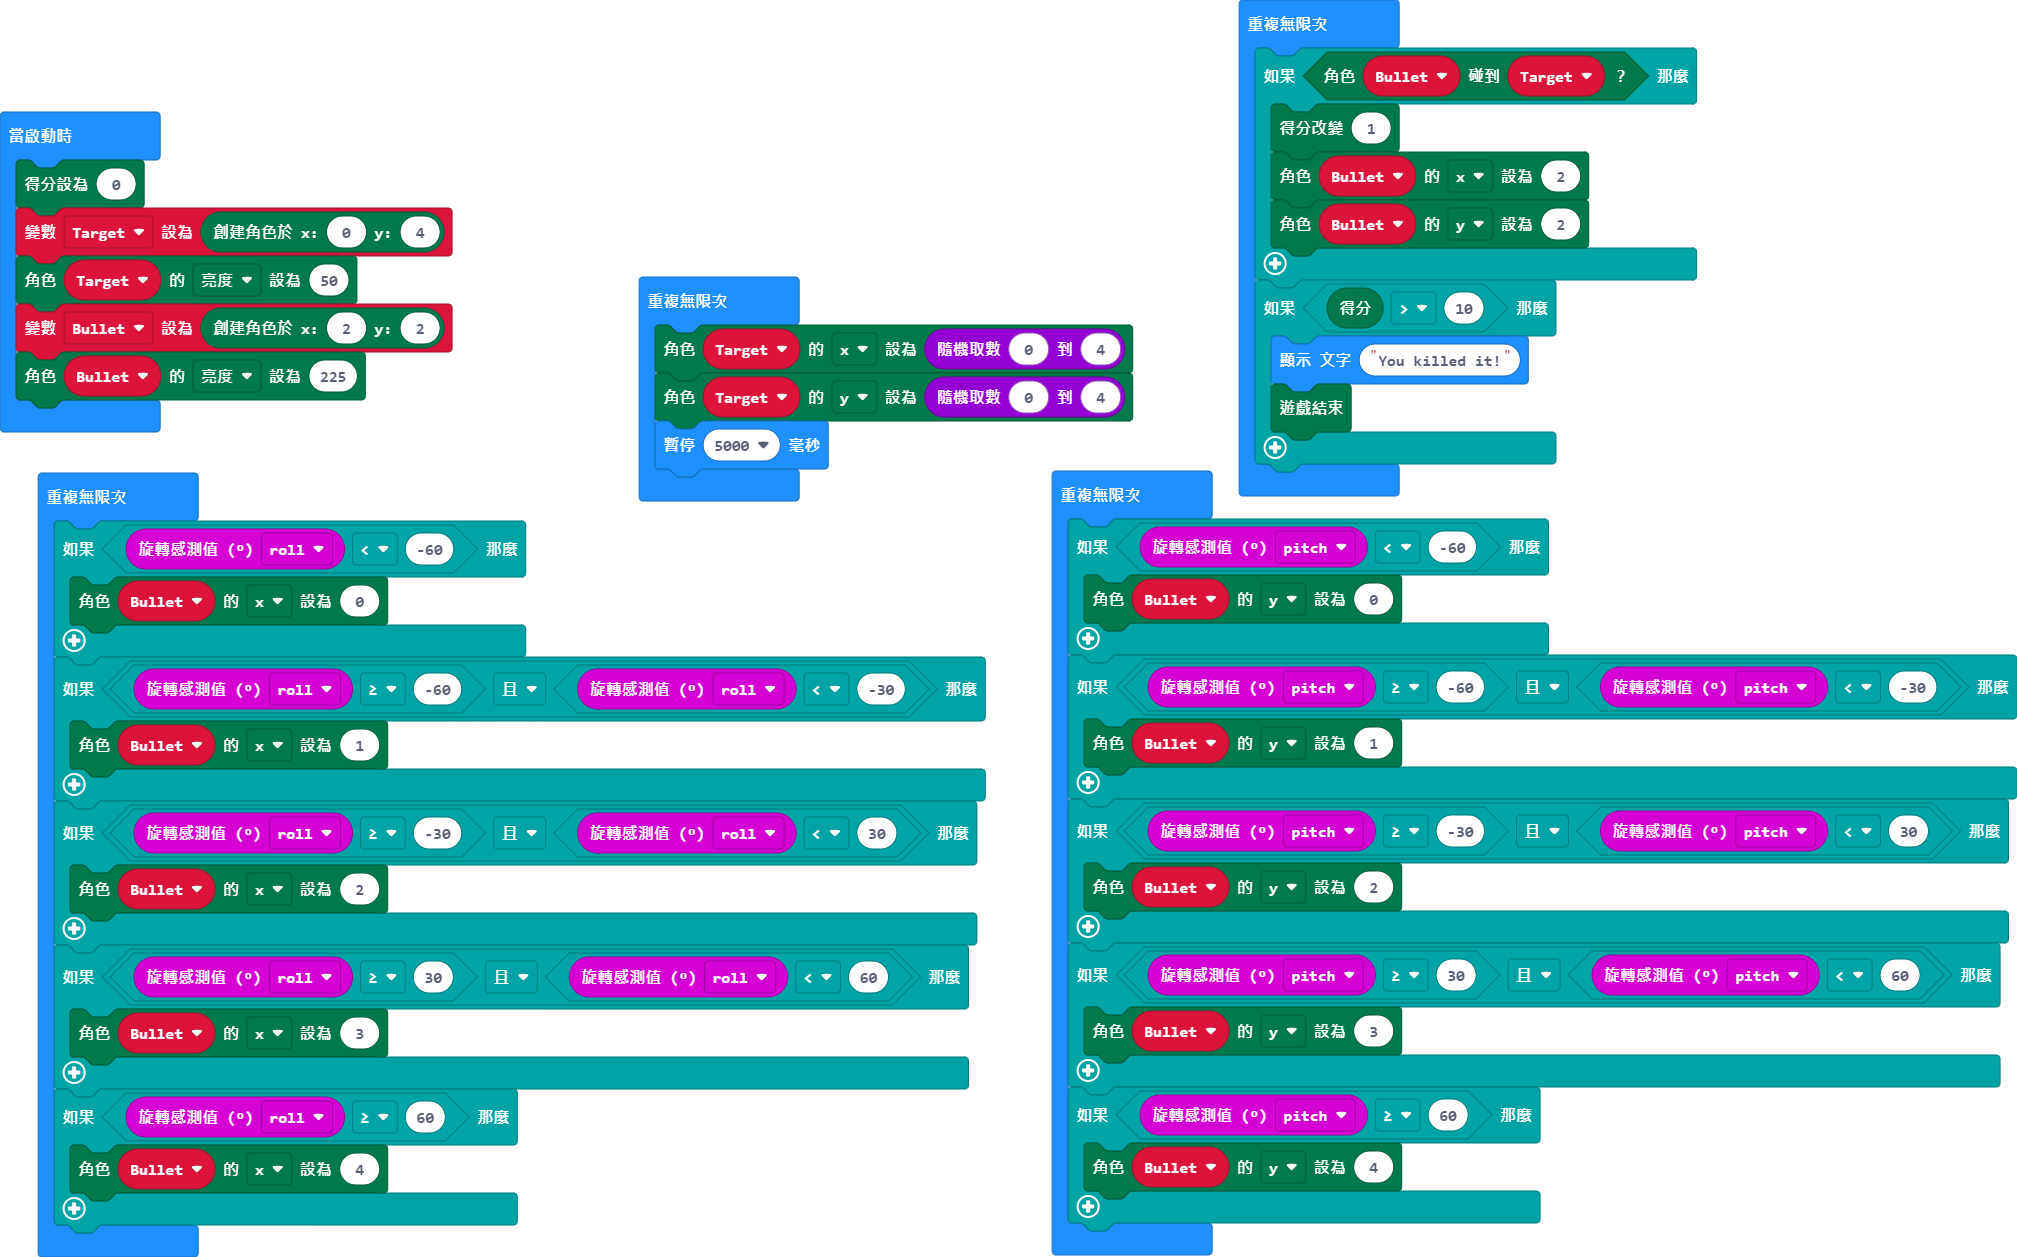
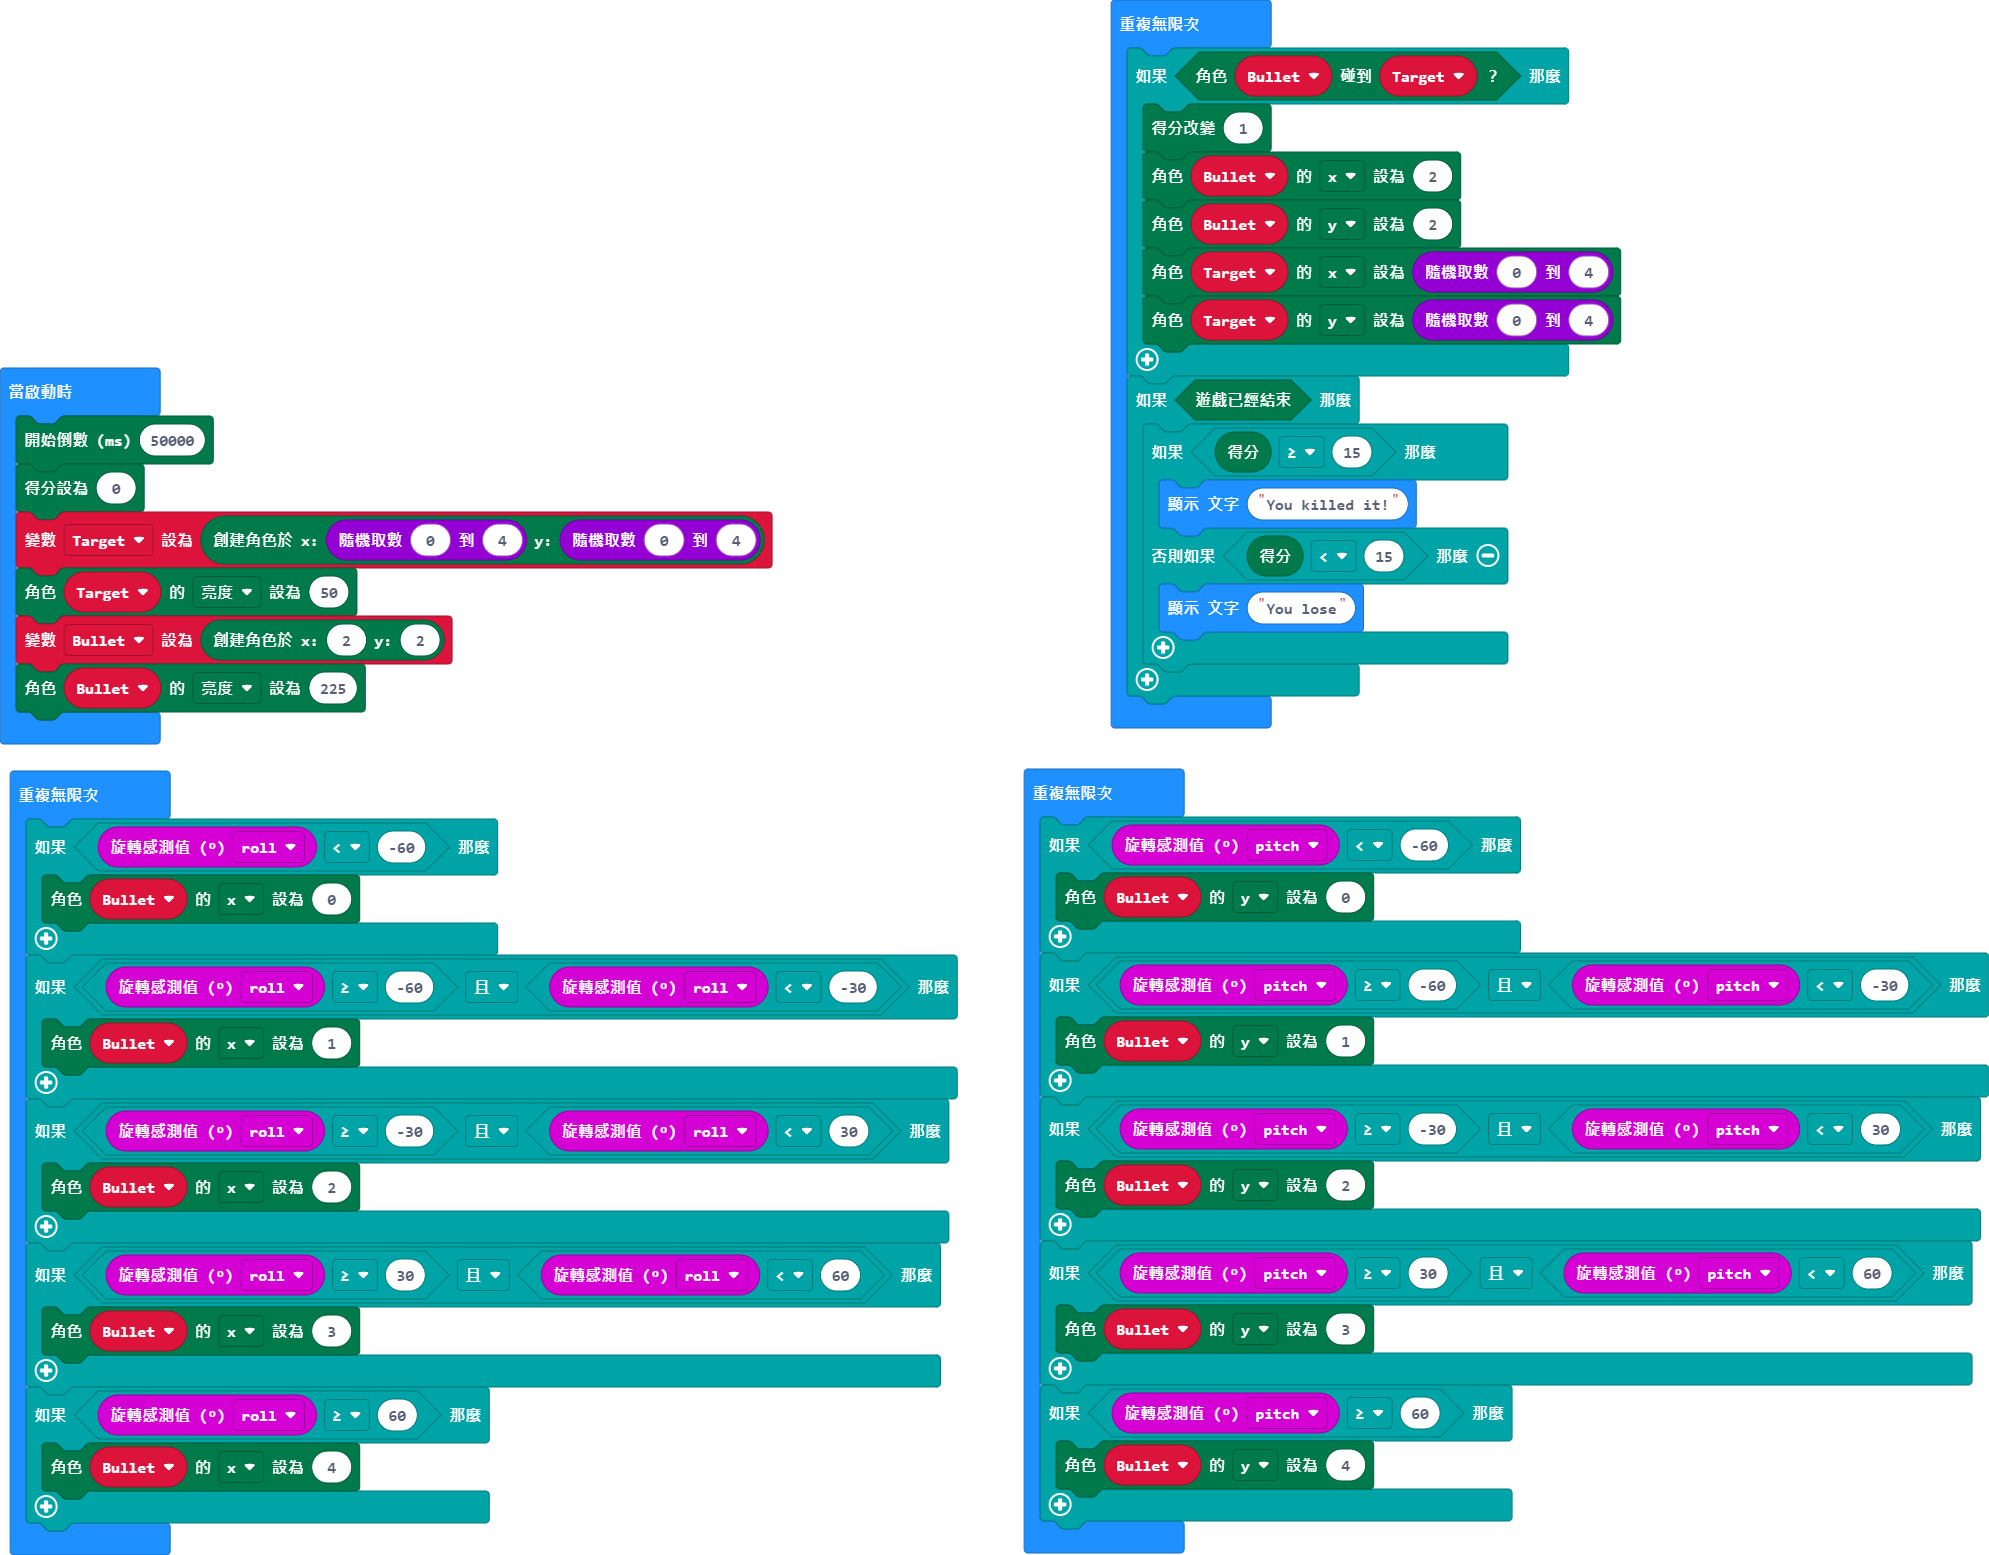
更新 main.blocks, main.ts

diff --git a/main.ts b/main.ts
@@ -1,5 +1,6 @@
+game.startCountdown(50000)
 game.setScore(0)
-let Target = game.createSprite(0, 4)
+let Target = game.createSprite(randint(0, 4), randint(0, 4))
 Target.set(LedSpriteProperty.Brightness, 50)
 let Bullet = game.createSprite(2, 2)
 Bullet.set(LedSpriteProperty.Brightness, 225)
@@ -8,16 +9,16 @@ basic.forever(function () {
         game.addScore(1)
         Bullet.set(LedSpriteProperty.X, 2)
         Bullet.set(LedSpriteProperty.Y, 2)
+        Target.set(LedSpriteProperty.X, randint(0, 4))
+        Target.set(LedSpriteProperty.Y, randint(0, 4))
     }
-    if (game.score() > 10) {
-        basic.showString("You killed it!")
-        game.gameOver()
+    if (game.isGameOver()) {
+        if (game.score() >= 15) {
+            basic.showString("You killed it!")
+        } else if (game.score() < 15) {
+            basic.showString("You lose")
+        }
     }
-})
-basic.forever(function () {
-    Target.set(LedSpriteProperty.X, randint(0, 4))
-    Target.set(LedSpriteProperty.Y, randint(0, 4))
-    basic.pause(5000)
 })
 basic.forever(function () {
     if (input.rotation(Rotation.Roll) < -60) {
